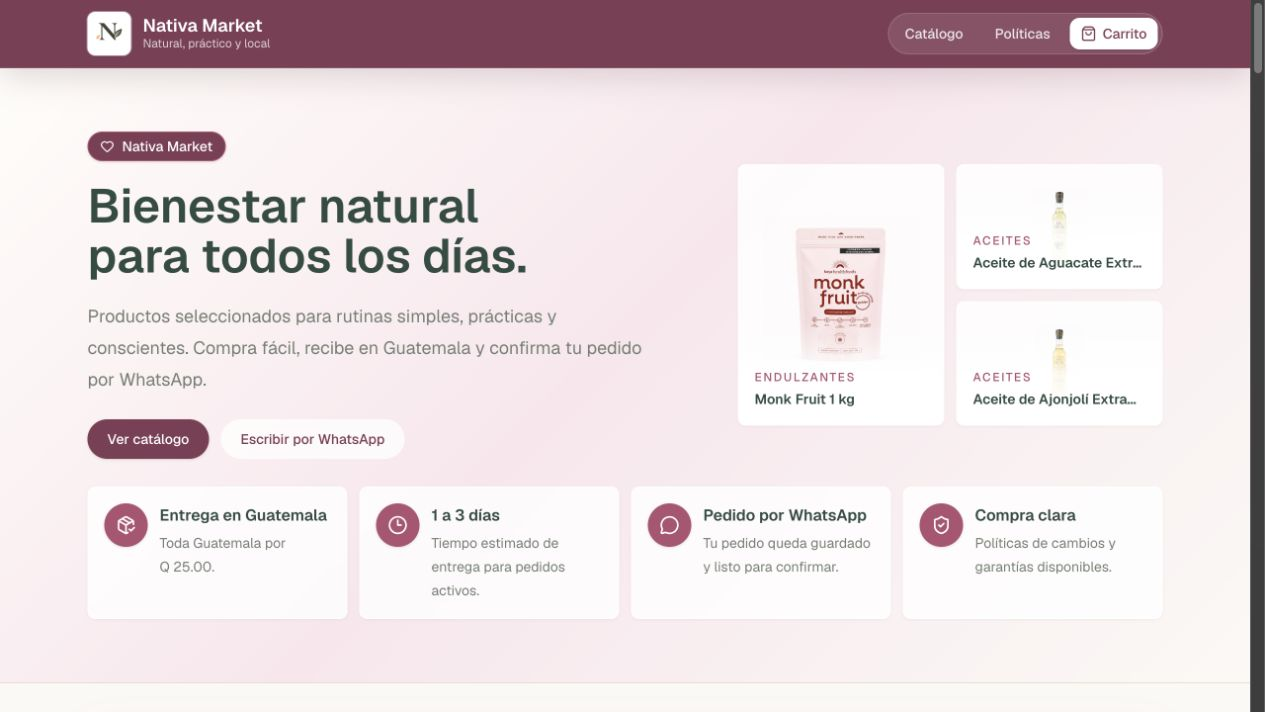
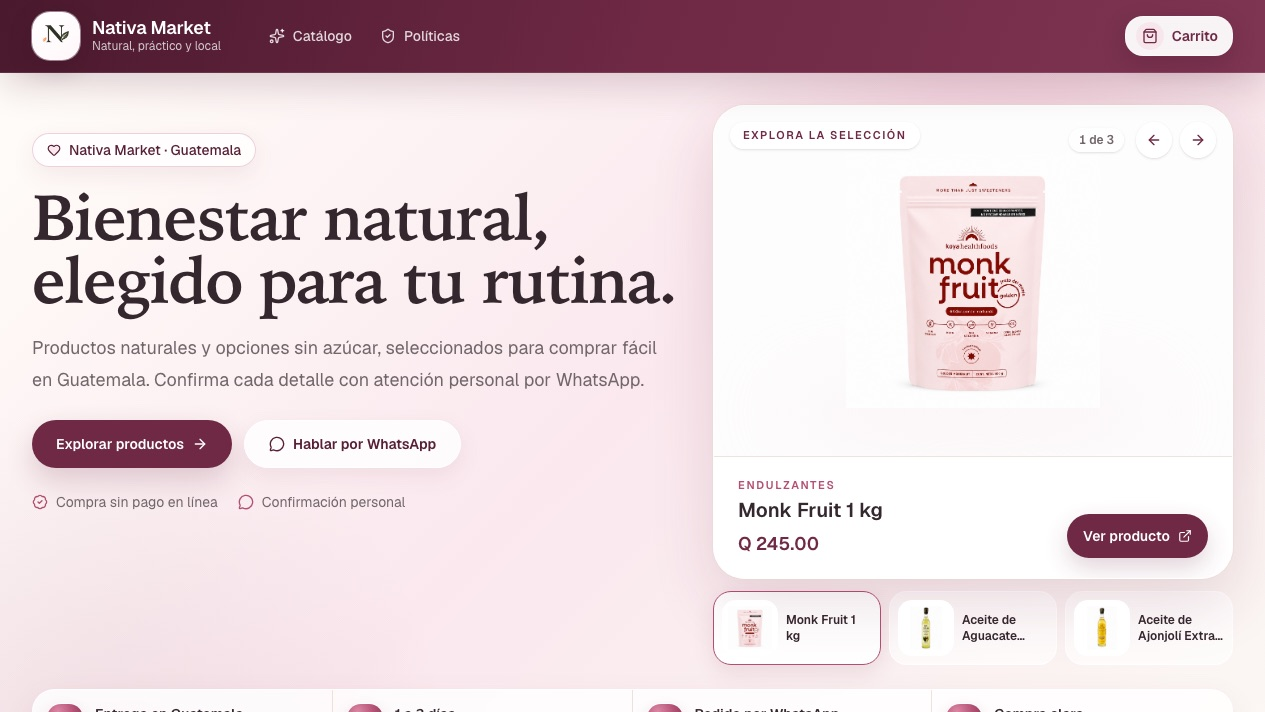
feat: update Nativa Market case study

diff --git a/src/data/projects.ts b/src/data/projects.ts
@@ -39,28 +39,31 @@ export const projects = [
     {
         title: "Nativa Market",
         slug: "nativa-market",
-        description: "Ecommerce para Guatemala con catálogo administrable, carrito, checkout, pedidos persistentes y confirmación operativa por WhatsApp.",
-        longDescription: "Nativa Market necesitaba vender productos naturales sin depender de una plataforma genérica. El proyecto conecta catálogo público, búsqueda, filtros, carrito y checkout con un panel privado donde el negocio administra productos, categorías, configuración y estados de pedidos.",
+        description: "Ecommerce operativo para Guatemala con catálogo administrable, experiencia de compra renovada, pedidos transaccionales y SEO preparado para productos y categorías.",
+        longDescription: "Nativa Market evolucionó de un catálogo funcional a una tienda ecommerce completa para productos naturales. La plataforma conecta una experiencia pública editorial con búsqueda, categorías, galerías, carrito y checkout; detrás, un panel protegido permite administrar productos, pedidos, pagos, entregas y configuración sin depender de una plataforma genérica.",
         challenges: [
-            "Cerrar un flujo de compra completo sin añadir una pasarela de pago innecesaria para el MVP.",
-            "Mantener catálogo, disponibilidad, costos de entrega y métodos de pago configurables por el negocio.",
-            "Guardar el pedido de forma confiable antes de continuar la conversación por WhatsApp."
+            "Cerrar un flujo de compra completo sin introducir una pasarela de pago que no correspondía al alcance validado del MVP.",
+            "Presentar un catálogo amplio y galerías de producto con una experiencia clara, rápida y consistente en móvil y escritorio.",
+            "Mantener indexables productos y categorías sin exponer al buscador las rutas privadas o transaccionales."
         ],
         solutions: [
-            "Se diseñó un modelo transaccional de pedidos e ítems sobre PostgreSQL y Drizzle ORM.",
-            "Se construyó un panel protegido para productos, categorías, pedidos y configuración comercial.",
-            "Se añadió verificación automatizada del flujo principal y smoke tests contra producción."
+            "Se organizó el sistema por funcionalidades sobre Next.js 16, React 19, PostgreSQL, Supabase y Drizzle, con acciones administrativas protegidas desde servidor.",
+            "El checkout recalcula importes desde la base de datos y guarda pedido e ítems mediante una función SQL transaccional antes de preparar la confirmación por WhatsApp.",
+            "Se renovó la tienda con una dirección visual boutique, carruseles táctiles, imágenes con encuadre completo y recorridos responsive para catálogo, carrito, checkout y confirmación.",
+            "Se implementaron canonical, sitemap dinámico, rutas por categoría y datos estructurados OnlineStore, Product, Offer y BreadcrumbList, con noindex en flujos privados."
         ],
-        results: "El MVP opera en dominio propio con catálogo real, búsqueda por categoría, carrito, checkout, pedidos guardados y entrega configurable para Guatemala.",
-        technologies: ["Next.js", "TypeScript", "PostgreSQL", "Supabase", "Drizzle ORM"],
+        results: "El MVP opera en dominio propio con 28 productos activos, siete categorías, dos métodos de pago y entrega configurable para toda Guatemala. La renovación UI/UX fue validada en desktop y móvil; los smoke tests verifican el flujo de pedidos y producción, y Search Console confirmó sitemap correcto y resultados enriquecidos de producto válidos.",
+        technologies: ["Next.js 16", "React 19", "TypeScript", "PostgreSQL", "Supabase", "Drizzle ORM", "Motion"],
         evidence: [
-            { label: "Dominio de producción", source: "Sitio público", url: "https://www.nativamarket.net/" },
-            { label: "Catálogo real operativo", source: "Sitio público", url: "https://www.nativamarket.net/#catalogo" },
-            { label: "CI y smoke tests", source: "Repositorio privado" }
+            { label: "Tienda y catálogo operativo en dominio propio", source: "Sitio público", url: "https://www.nativamarket.net/" },
+            { label: "Productos y categorías en sitemap público", source: "Sitio público", url: "https://www.nativamarket.net/sitemap.xml" },
+            { label: "Checkout transaccional y panel administrativo", source: "Repositorio privado" },
+            { label: "CI y smoke tests de MVP y producción", source: "Repositorio privado" },
+            { label: "SEO ecommerce y resultados enriquecidos verificados", source: "Repositorio privado" }
         ] satisfies ProjectEvidence[],
-        verifiedAt: "2026-06-30",
-        role: "Producto, arquitectura e ingeniería full-stack",
-        status: "MVP validado en producción",
+        verifiedAt: "2026-07-15",
+        role: "Producto, arquitectura, UI/UX e ingeniería full-stack",
+        status: "MVP en producción · UI/UX y SEO renovados",
         image: "/images/nativa-market.png",
         github: "",
         demo: "https://www.nativamarket.net/",
